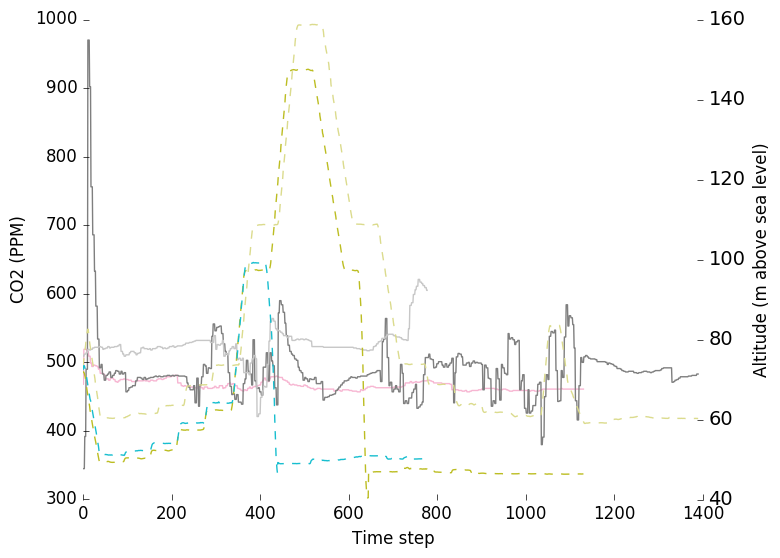
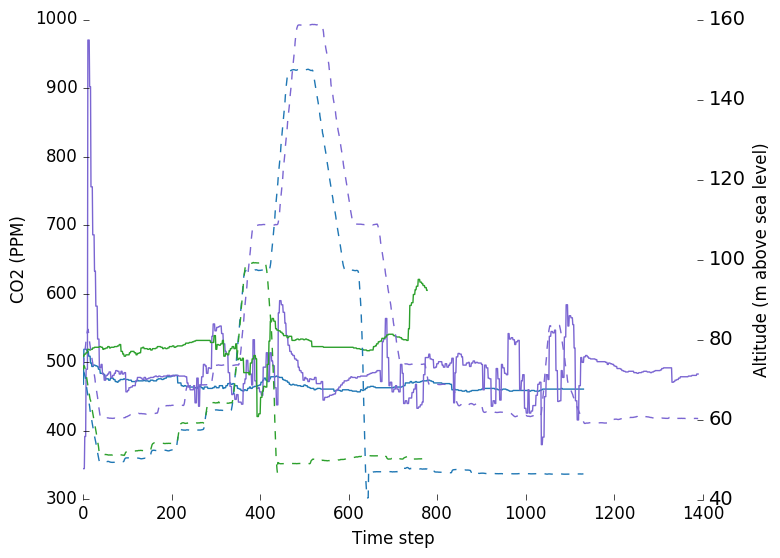
improved color plot order

diff --git a/Campaign1_May2016/prelim_analysis/VProfile_plots.py b/Campaign1_May2016/prelim_analysis/VProfile_plots.py
@@ -1,4 +1,3 @@
-
 """
 Reads in 1 or more CO2Meter profile logs and creates plots accordingly.  All comands except clean "-c" can be run
 with multiple files
@@ -11,12 +10,11 @@ import pandas as pd
 import sys
 
 # Create pretty colours for plots
-#TODO reorder these in an order that places better displaying colours together
-tableau20 = [(31, 119, 180), (174, 199, 232), (255, 127, 14), (255, 187, 120),
-             (44, 160, 44), (152, 223, 138), (214, 39, 40), (255, 152, 150),
-             (148, 103, 189), (197, 176, 213), (140, 86, 75), (196, 156, 148),
-             (227, 119, 194), (247, 182, 210), (127, 127, 127), (199, 199, 199),
-             (188, 189, 34), (219, 219, 141), (23, 190, 207), (158, 218, 229)]
+tableau20 = [(31, 119, 180), (123, 102, 210), (44, 160, 44), (255, 152, 150)
+             (214, 39, 40), (23, 190, 207), (188, 189, 34), (127, 127, 127),
+             (220,95,189),(140, 86, 75), (174, 199, 232), (255, 127, 14),
+             (255, 187, 120),(152, 223, 138), (197, 176, 213),(196, 156, 148),
+             (247, 182, 210), (199, 199, 199), (219, 219, 141), (158, 218, 229)]
 
 # Scale the RGB values to the [0, 1] range, which is the format matplotlib accepts.
 for i in range(len(tableau20)):
@@ -170,7 +168,7 @@ def create_multiplot(files):
 
     x = range(max(lengths))
 
-    i = 13
+    i = 0
     for (co, l) in zip(CO2s, lables):
         x = range(len(co))
         ax1.plot(x, co, color=tableau20[i], label=l)
@@ -178,6 +176,7 @@ def create_multiplot(files):
         # ax1.plot(x, co, color=tableau20[i])
         i += 1
 
+    i = 0
     for (alt, l) in zip(Alts, lables):
         x = range(len(alt))
         ax2.plot(x, alt, color=tableau20[i], label=l, linestyle="--")
@@ -189,7 +188,7 @@ def create_multiplot(files):
     plt.savefig("./images/multiplot.png", bbox_inches="tight")
 
     # TODO add flag to turn this on and off
-    plt.show()
+    #plt.show()
 
 
 def make_plot(afile,count):
@@ -204,9 +203,6 @@ def make_plot(afile,count):
     c2 = tableau20[18]
 
     # Read in CO2 and Alt
-    print("HERE")
-    print(afile)
-
     df = pd.read_csv(afile)
     # print(list(df.columns.values))
     co = df['CO2']
@@ -244,7 +240,7 @@ def make_plot(afile,count):
     plt.savefig("./images/{}_{}.png".format(count,"_".join(afile.split("_")[1:])), bbox_inches="tight")
 
     # TODO add flag to turn this on and off
-    plt.show()
+    #plt.show()
 
 
 def clean_up():

diff --git a/src/VProfile_plots.py b/src/VProfile_plots.py
@@ -1,4 +1,3 @@
-
 """
 Reads in 1 or more CO2Meter profile logs and creates plots accordingly.  All comands except clean "-c" can be run
 with multiple files
@@ -11,12 +10,11 @@ import pandas as pd
 import sys
 
 # Create pretty colours for plots
-#TODO reorder these in an order that places better displaying colours together
-tableau20 = [(31, 119, 180), (174, 199, 232), (255, 127, 14), (255, 187, 120),
-             (44, 160, 44), (152, 223, 138), (214, 39, 40), (255, 152, 150),
-             (148, 103, 189), (197, 176, 213), (140, 86, 75), (196, 156, 148),
-             (227, 119, 194), (247, 182, 210), (127, 127, 127), (199, 199, 199),
-             (188, 189, 34), (219, 219, 141), (23, 190, 207), (158, 218, 229)]
+tableau20 = [(31, 119, 180), (123, 102, 210), (44, 160, 44), (255, 152, 150)
+             (214, 39, 40), (23, 190, 207), (188, 189, 34), (127, 127, 127),
+             (220,95,189),(140, 86, 75), (174, 199, 232), (255, 127, 14),
+             (255, 187, 120),(152, 223, 138), (197, 176, 213),(196, 156, 148),
+             (247, 182, 210), (199, 199, 199), (219, 219, 141), (158, 218, 229)]
 
 # Scale the RGB values to the [0, 1] range, which is the format matplotlib accepts.
 for i in range(len(tableau20)):
@@ -170,7 +168,7 @@ def create_multiplot(files):
 
     x = range(max(lengths))
 
-    i = 13
+    i = 0
     for (co, l) in zip(CO2s, lables):
         x = range(len(co))
         ax1.plot(x, co, color=tableau20[i], label=l)
@@ -178,6 +176,7 @@ def create_multiplot(files):
         # ax1.plot(x, co, color=tableau20[i])
         i += 1
 
+    i = 0
     for (alt, l) in zip(Alts, lables):
         x = range(len(alt))
         ax2.plot(x, alt, color=tableau20[i], label=l, linestyle="--")
@@ -189,7 +188,7 @@ def create_multiplot(files):
     plt.savefig("./images/multiplot.png", bbox_inches="tight")
 
     # TODO add flag to turn this on and off
-    plt.show()
+    #plt.show()
 
 
 def make_plot(afile,count):
@@ -241,7 +240,7 @@ def make_plot(afile,count):
     plt.savefig("./images/{}_{}.png".format(count,"_".join(afile.split("_")[1:])), bbox_inches="tight")
 
     # TODO add flag to turn this on and off
-    plt.show()
+    #plt.show()
 
 
 def clean_up():
